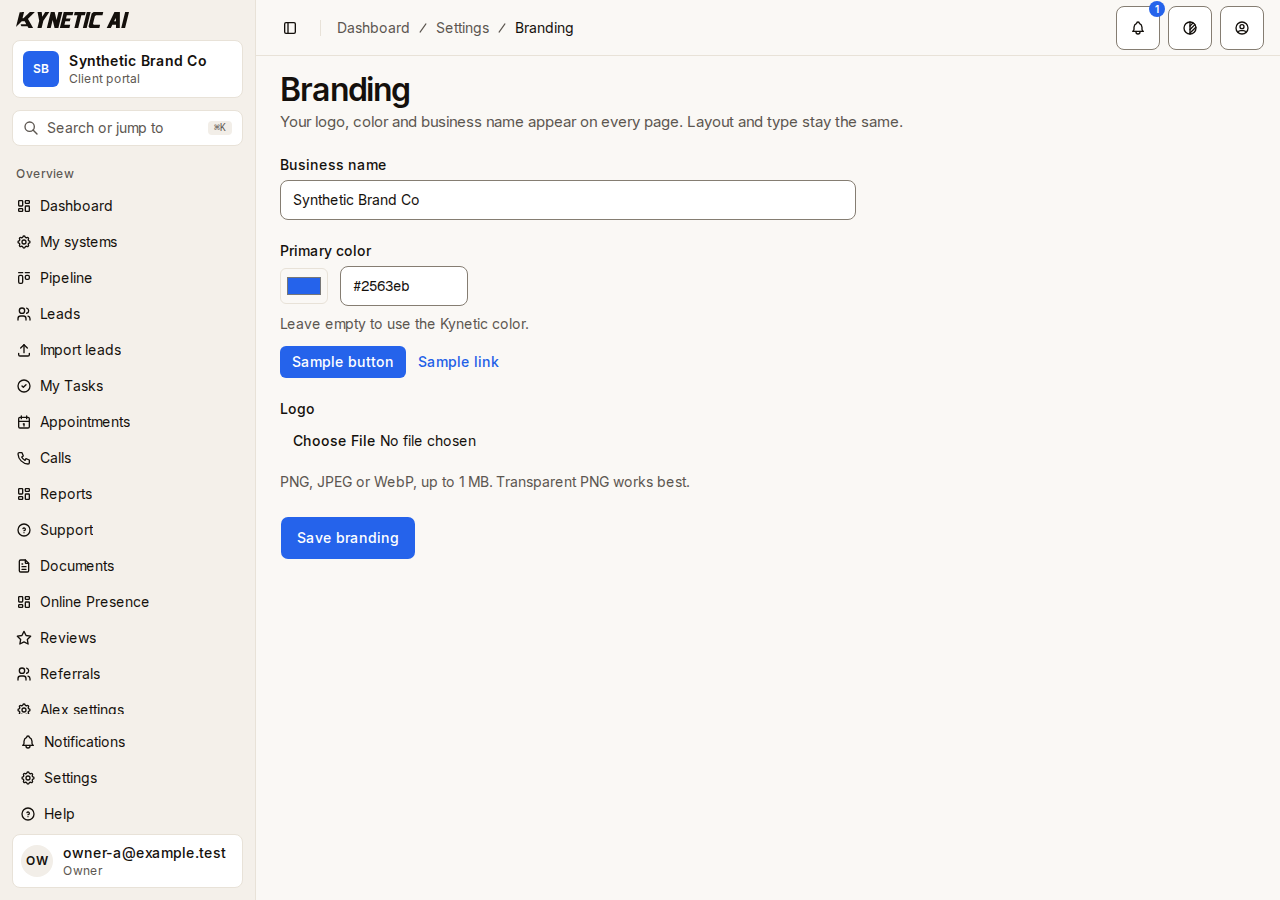
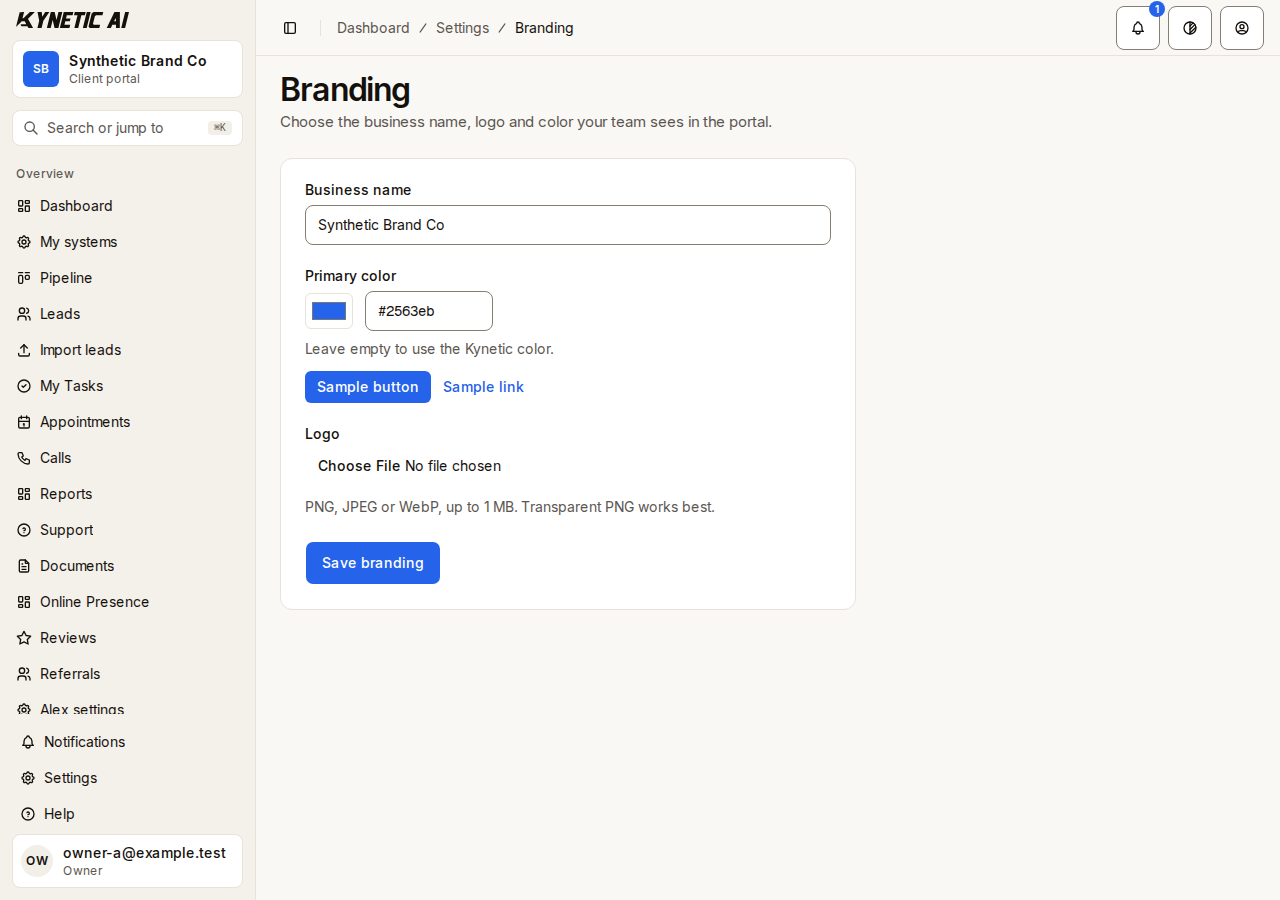
Align Settings permission states and branding

Changed region(s): [[0.2188, 0.1244, 0.7188, 0.6533]]

diff --git a/crm/tests/e2e/server.ts b/crm/tests/e2e/server.ts
@@ -9,6 +9,7 @@ import { importArchive } from '../../src/server/archive';
 const port = Number(process.env.E2E_PORT ?? 3100);
 const baseUrl = `http://localhost:${port}`;
 const storagePath = join('/tmp', 'kynetic-crm-e2e-owner.json');
+const staffStoragePath = join('/tmp', 'kynetic-crm-e2e-staff.json');
 const adminStoragePath = join('/tmp', 'kynetic-crm-e2e-admin.json');
 const vaStoragePath = join('/tmp', 'kynetic-crm-e2e-va.json');
 const enrolStoragePath = join('/tmp', 'kynetic-crm-e2e-enrol.json');
@@ -19,12 +20,12 @@ let db: TestDatabase | undefined;
 let child: ReturnType<typeof spawn> | undefined;
 
 // Authenticated synthetic storage state. Production builds never enable persona switching.
-async function sessionState(persona: 'owner' | 'admin' | 'va'): Promise<string> {
-  const userId = { owner: IDS.ownerA, admin: IDS.admin, va: IDS.va }[persona];
+async function sessionState(persona: 'owner' | 'staff' | 'admin' | 'va'): Promise<string> {
+  const userId = { owner: IDS.ownerA, staff: IDS.staffA, admin: IDS.admin, va: IDS.va }[persona];
   const token = randomBytes(32).toString('hex');
   await db!.admin`insert into sessions (user_id, token, expires_at, two_factor_verified_at)
     values (${userId}, ${token}, now() + interval '1 hour', now())`;
-  if (persona !== 'owner')
+  if (persona === 'admin' || persona === 'va')
     await db!.admin`update users set two_factor_enabled = true where id = ${userId}`;
   const signature = createHmac('sha256', secret).update(token).digest('base64');
   return JSON.stringify({
@@ -147,6 +148,7 @@ async function main(): Promise<void> {
     values (${ENROL_USER}, ${enrolToken}, now() + interval '1 hour')`;
   const enrolSignature = createHmac('sha256', secret).update(enrolToken).digest('base64');
   await writeFile(storagePath, await sessionState('owner'));
+  await writeFile(staffStoragePath, await sessionState('staff'));
   await writeFile(adminStoragePath, await sessionState('admin'));
   await writeFile(vaStoragePath, await sessionState('va'));
   await writeFile(

diff --git a/crm/src/app/dashboard/settings/branding/page.tsx b/crm/src/app/dashboard/settings/branding/page.tsx
@@ -1,4 +1,4 @@
-import { SettingsPage as PageContainer } from '../settings-page';
+import { SettingsPage } from '../settings-page';
 import { can, requireUser, resolveActor } from '@/server/auth';
 import { getBranding, logoUrl } from '@/server/branding';
 import { loadShellContext } from '@/server/shell';
@@ -16,9 +16,13 @@ export default async function BrandingPage() {
   const actor = await resolveActor(user, shell.tenant.id);
   if (!can(actor, 'settings.business', shell.tenant.id)) {
     return (
-      <PageContainer pageTitle='Branding'>
-        <p className='text-muted-foreground text-sm'>Only the account owner can change branding.</p>
-      </PageContainer>
+      <SettingsPage
+        pageTitle='Branding'
+        access={false}
+        accessFallback='Only the account owner can change branding.'
+      >
+        {null}
+      </SettingsPage>
     );
   }
   const branding = await getBranding({
@@ -27,9 +31,9 @@ export default async function BrandingPage() {
     role: shell.role
   });
   return (
-    <PageContainer
+    <SettingsPage
       pageTitle='Branding'
-      pageDescription='Your logo, color and business name appear on every page. Layout and type stay the same.'
+      pageDescription='Choose the business name, logo and color your team sees in the portal.'
     >
       <BrandingForm
         initial={{
@@ -38,6 +42,6 @@ export default async function BrandingPage() {
           logoUrl: logoUrl(branding.logoKey)
         }}
       />
-    </PageContainer>
+    </SettingsPage>
   );
 }

diff --git a/crm/src/app/dashboard/settings/pipeline/page.tsx b/crm/src/app/dashboard/settings/pipeline/page.tsx
@@ -1,4 +1,4 @@
-import { SettingsPage as PageContainer } from '../settings-page';
+import { SettingsPage } from '../settings-page';
 import { can } from '@/server/auth/permissions';
 import { listStagesWithCounts, stageScope } from '@/server/deals';
 import { isModuleEnabled } from '@/server/modules';
@@ -13,26 +13,26 @@ export default async function PipelineSettingsPage() {
   // F-85: configurable stages belong to CRM Lite. Without it the board keeps the default stages.
   if (!(await isModuleEnabled(ctx, 'crm', { level: 'lite' }))) {
     return (
-      <PageContainer
+      <SettingsPage
         pageTitle='Pipeline stages'
         access={false}
         accessFallback={
-          <p className='text-muted-foreground text-center text-lg'>
+          <p className='text-muted-foreground text-sm'>
             Configurable stages are part of the CRM build-out. Ask Kynetic to add it to your plan.
           </p>
         }
       >
         {null}
-      </PageContainer>
+      </SettingsPage>
     );
   }
   const stages = await listStagesWithCounts(ctx);
   return (
-    <PageContainer
+    <SettingsPage
       pageTitle='Pipeline stages'
       pageDescription='Rename, reorder and add the stages your deals move through. Deals keep their stage.'
     >
       <StagesManager initial={stages} canEdit={can(actor, 'settings.business', ctx.tenantId)} />
-    </PageContainer>
+    </SettingsPage>
   );
 }

diff --git a/crm/src/app/dashboard/settings/tags/page.tsx b/crm/src/app/dashboard/settings/tags/page.tsx
@@ -1,4 +1,4 @@
-import { SettingsPage as PageContainer } from '../settings-page';
+import { SettingsPage } from '../settings-page';
 import { can } from '@/server/auth/permissions';
 import { stageScope } from '@/server/deals';
 import { isModuleEnabled } from '@/server/modules';
@@ -14,21 +14,21 @@ export default async function TagSettingsPage() {
   // F-85: tag settings belong to CRM Lite. Tags can still be applied to a contact without it.
   if (!(await isModuleEnabled(ctx, 'crm', { level: 'lite' }))) {
     return (
-      <PageContainer
+      <SettingsPage
         pageTitle='Tags'
         access={false}
         accessFallback={
-          <p className='text-muted-foreground text-center text-lg'>
+          <p className='text-muted-foreground text-sm'>
             Tag settings are part of the CRM build-out. Ask Kynetic to add it to your plan.
           </p>
         }
       >
         {null}
-      </PageContainer>
+      </SettingsPage>
     );
   }
   return (
-    <PageContainer
+    <SettingsPage
       pageTitle='Tags'
       pageDescription='Create, rename and remove the tags you put on contacts.'
     >
@@ -36,6 +36,6 @@ export default async function TagSettingsPage() {
         initial={await listTags(ctx)}
         canEdit={can(actor, 'settings.business', ctx.tenantId)}
       />
-    </PageContainer>
+    </SettingsPage>
   );
 }

diff --git a/crm/tests/e2e/redesign-settings.spec.ts b/crm/tests/e2e/redesign-settings.spec.ts
@@ -99,3 +99,27 @@ test('Notification preferences show a save error', async ({ authenticatedPage: p
     page.getByRole('status').filter({ hasText: 'Unable to save preferences' })
   ).toBeVisible();
 });
+
+test('Staff can read business settings and cannot manage the team or branding', async ({
+  browser
+}) => {
+  const context = await browser.newContext({ storageState: '/tmp/kynetic-crm-e2e-staff.json' });
+  try {
+    const page = await context.newPage();
+    await page.goto('/dashboard/settings/business');
+    await expect(page.getByRole('heading', { name: 'Business settings' })).toBeVisible();
+    await expect(page.getByLabel('Time zone')).toBeDisabled();
+    await expect(page.getByRole('button', { name: 'Save', exact: true })).toHaveCount(0);
+
+    await page.goto('/dashboard/settings/team');
+    await expect(page.getByRole('heading', { name: 'Team', exact: true })).toBeVisible();
+    await expect(page.getByRole('status').filter({ hasText: 'You do not have access' })).toBeVisible();
+
+    await page.goto('/dashboard/settings/branding');
+    await expect(page.getByRole('heading', { name: 'Branding' })).toBeVisible();
+    await expect(page.getByText('Only the account owner can change branding.')).toBeVisible();
+    await expect(page.getByLabel('Business name')).toHaveCount(0);
+  } finally {
+    await context.close();
+  }
+});

diff --git a/crm/src/app/dashboard/settings/custom-fields/page.tsx b/crm/src/app/dashboard/settings/custom-fields/page.tsx
@@ -1,4 +1,4 @@
-import { SettingsPage as PageContainer } from '../settings-page';
+import { SettingsPage } from '../settings-page';
 import { CustomFieldsManager } from '@/features/custom-fields/custom-fields-manager';
 import { customFieldsScope, listFieldDefs } from '@/server/custom-fields';
 import { headers } from 'next/headers';
@@ -12,18 +12,18 @@ export default async function CustomFieldsPage() {
   const scope = await customFieldsScope(await headers());
   if (!scope) {
     return (
-      <PageContainer pageTitle='Custom fields' access={false}>
+      <SettingsPage pageTitle='Custom fields' access={false}>
         {null}
-      </PageContainer>
+      </SettingsPage>
     );
   }
   const defs = await listFieldDefs(scope.ctx);
   return (
-    <PageContainer
+    <SettingsPage
       pageTitle='Custom fields'
       pageDescription='Add fields that are specific to your business. They show up on every contact, in the list and in filters.'
     >
       <CustomFieldsManager defs={defs} canEdit={scope.canEdit} />
-    </PageContainer>
+    </SettingsPage>
   );
 }

diff --git a/crm/src/app/dashboard/settings/team/page.tsx b/crm/src/app/dashboard/settings/team/page.tsx
@@ -1,4 +1,4 @@
-import { SettingsPage as PageContainer } from '../settings-page';
+import { SettingsPage } from '../settings-page';
 import { can } from '@/server/auth/permissions';
 import { listTeam, settingsScope } from '@/server/settings';
 import { headers } from 'next/headers';
@@ -12,15 +12,15 @@ export default async function TeamSettingsPage() {
   // Staff cannot open team settings (F-41).
   if (!can(actor, 'team.manage', ctx.tenantId)) {
     return (
-      <PageContainer pageTitle='Team' access={false}>
+      <SettingsPage pageTitle='Team' access={false}>
         {null}
-      </PageContainer>
+      </SettingsPage>
     );
   }
   const team = await listTeam(ctx, actor);
   return (
-    <PageContainer pageTitle='Team' pageDescription='Invite staff and choose what they can do.'>
+    <SettingsPage pageTitle='Team' pageDescription='Invite staff and choose what they can do.'>
       <TeamManager initial={team} />
-    </PageContainer>
+    </SettingsPage>
   );
 }

diff --git a/crm/src/app/dashboard/settings/alex/page.tsx b/crm/src/app/dashboard/settings/alex/page.tsx
@@ -1,4 +1,4 @@
-import { SettingsPage as PageContainer } from '../settings-page';
+import { SettingsPage } from '../settings-page';
 import { Badge } from '@/components/ui/badge';
 import { Card, CardContent, CardDescription, CardHeader, CardTitle } from '@/components/ui/card';
 import { can, getSessionUser, resolveActor } from '@/server/auth';
@@ -67,7 +67,7 @@ export default async function AlexSettingsPage({
   const settings = await withTenant(ctx, (tx) => getAlexSettingsView(tx));
 
   return (
-    <PageContainer
+    <SettingsPage
       pageTitle='Alex settings'
       pageDescription='How Alex answers and when Alex calls. You can pause Alex and set call hours here. To change anything else, ask Kynetic.'
     >
@@ -169,6 +169,6 @@ export default async function AlexSettingsPage({
           </Card>
         </div>
       )}
-    </PageContainer>
+    </SettingsPage>
   );
 }

diff --git a/crm/src/app/dashboard/settings/settings-page.tsx b/crm/src/app/dashboard/settings/settings-page.tsx
@@ -15,21 +15,16 @@ export function SettingsPage({
   access?: boolean;
   accessFallback?: ReactNode;
 }) {
-  if (!access) {
-    return (
-      <div role='status' className='flex flex-1 items-center justify-center p-4 md:px-6'>
-        {accessFallback ?? (
-          <p className='text-muted-foreground text-center text-lg'>
-            You do not have access to this page.
-          </p>
-        )}
-      </div>
-    );
-  }
   return (
     <div className='mx-auto flex w-full max-w-[1280px] flex-1 flex-col gap-6 px-4 pt-2 pb-8 md:px-6 md:pt-4'>
       <PageHeader title={pageTitle} description={pageDescription} />
-      {children}
+      {access ? (
+        children
+      ) : (
+        <div role='status' className='bg-card rounded-xl border p-6 text-sm'>
+          {accessFallback ?? 'You do not have access to this page.'}
+        </div>
+      )}
     </div>
   );
 }

diff --git a/crm/src/app/dashboard/settings/notifications/page.tsx b/crm/src/app/dashboard/settings/notifications/page.tsx
@@ -1,4 +1,4 @@
-import { SettingsPage as PageContainer } from '../settings-page';
+import { SettingsPage } from '../settings-page';
 import { stageScope } from '@/server/deals';
 import { listMyPreferences } from '@/server/notifications';
 import { headers } from 'next/headers';
@@ -10,11 +10,11 @@ export const metadata = { title: 'Notification preferences' };
 export default async function NotificationSettingsPage() {
   const { ctx } = await stageScope(await headers());
   return (
-    <PageContainer
+    <SettingsPage
       pageTitle='Notification preferences'
       pageDescription='Choose which notifications also reach you by email. The bell always shows all of them.'
     >
       <PreferencesForm initial={await listMyPreferences(ctx)} />
-    </PageContainer>
+    </SettingsPage>
   );
 }

diff --git a/crm/src/app/dashboard/settings/automations/page.tsx b/crm/src/app/dashboard/settings/automations/page.tsx
@@ -1,4 +1,4 @@
-import { SettingsPage as PageContainer } from '../settings-page';
+import { SettingsPage } from '../settings-page';
 import { AutomationHistoryDrawer } from '@/components/automations/history-drawer';
 import { Button } from '@/components/ui/button';
 import { Card, CardContent, CardHeader, CardTitle } from '@/components/ui/card';
@@ -37,7 +37,7 @@ export default async function AutomationSettingsPage() {
     )
   );
   return (
-    <PageContainer
+    <SettingsPage
       pageTitle='Automations'
       pageDescription='Turn approved follow-up templates on or off, and see how recent runs finished.'
     >
@@ -76,7 +76,7 @@ export default async function AutomationSettingsPage() {
           );
         })}
       </div>
-    </PageContainer>
+    </SettingsPage>
   );
 }
 

diff --git a/crm/src/app/dashboard/settings/business/page.tsx b/crm/src/app/dashboard/settings/business/page.tsx
@@ -1,4 +1,4 @@
-import { SettingsPage as PageContainer } from '../settings-page';
+import { SettingsPage } from '../settings-page';
 import { can } from '@/server/auth/permissions';
 import { getBusinessSettings, settingsScope } from '@/server/settings';
 import { headers } from 'next/headers';
@@ -13,11 +13,11 @@ export default async function BusinessSettingsPage() {
   const settings = await getBusinessSettings(ctx);
   const canEdit = can(actor, 'settings.business', ctx.tenantId);
   return (
-    <PageContainer
+    <SettingsPage
       pageTitle='Business settings'
       pageDescription='Hours, service area, services and the number Alex transfers calls to.'
     >
       <BusinessForm initial={settings} canEdit={canEdit} />
-    </PageContainer>
+    </SettingsPage>
   );
 }
